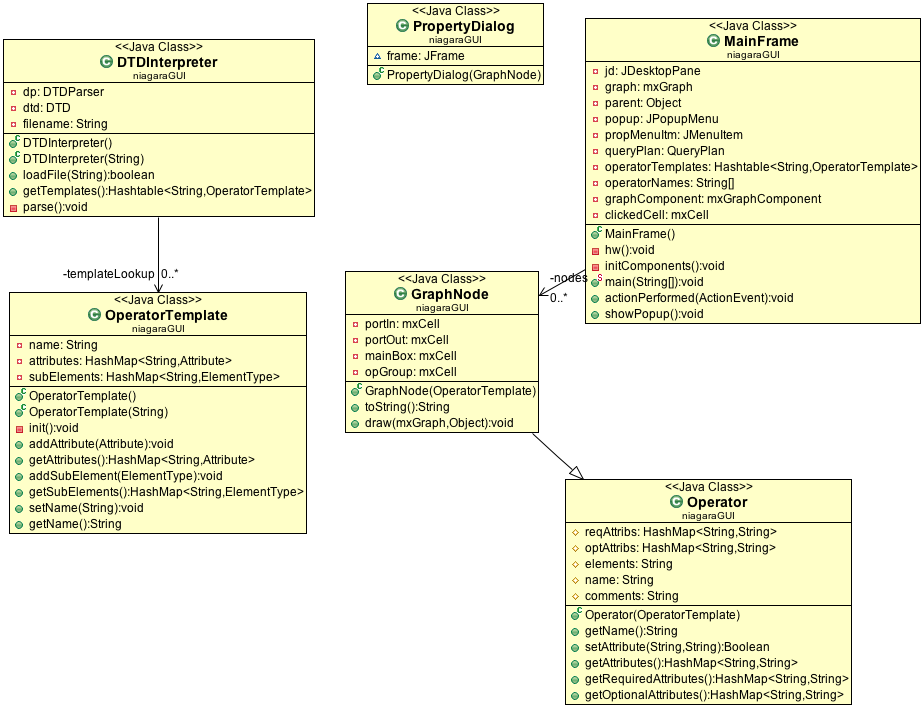
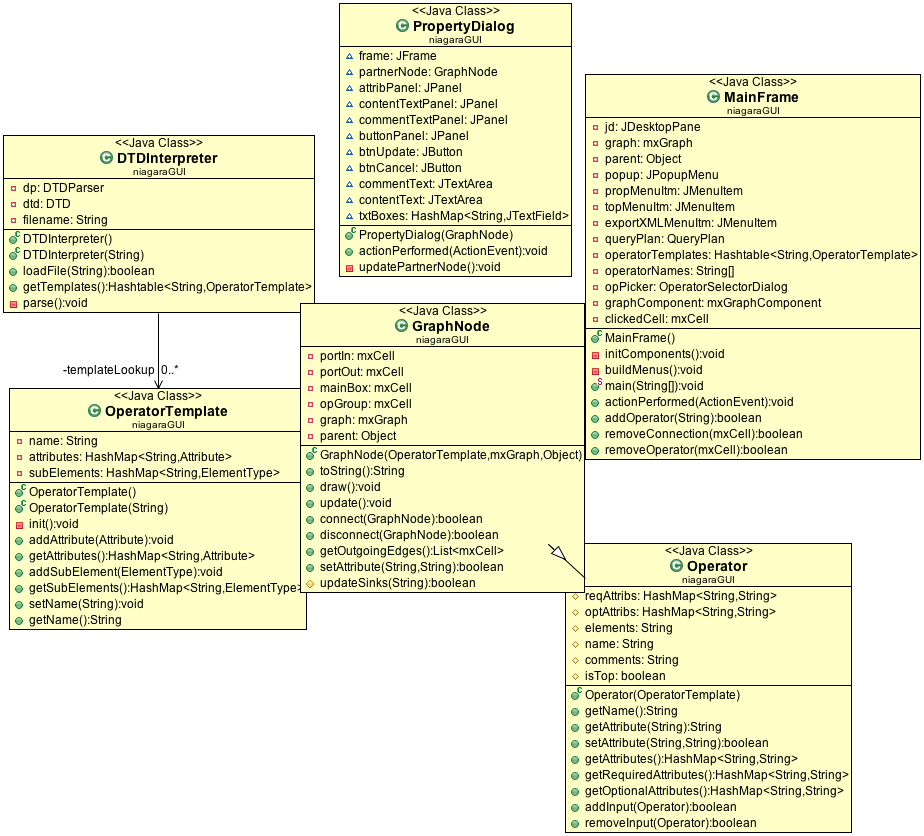
Changed things to store instansiated operators in QueryPlan.opList instead of MainFrame.nodes

diff --git a/src/niagaraGUI/MainFrame.java b/src/niagaraGUI/MainFrame.java
@@ -50,7 +50,6 @@ public class MainFrame extends JFrame implements ActionListener {
 	private QueryPlan queryPlan;
 	private Hashtable<String,OperatorTemplate> operatorTemplates;
 	private String[] operatorNames;
-	private List<GraphNode> nodes;
 	private OperatorSelectorDialog opPicker;
 	
 	
@@ -109,19 +108,7 @@ public class MainFrame extends JFrame implements ActionListener {
 			}
 		}
 	}
-	private class CellRemovalListener implements mxIEventListener{
-		JFrame master;
-		public CellRemovalListener(JFrame master){
-			this.master = master;
-		}
-		@Override
-		public void invoke(Object sender, mxEventObject evt) {
-			System.out.println(evt);
-			System.out.println("REMOVER INVOKED");
-			
-		}
-		
-	}
+	
 	private class KeyEventListener implements KeyListener{
 		JFrame master;
 		public KeyEventListener(JFrame master){
@@ -206,7 +193,6 @@ public class MainFrame extends JFrame implements ActionListener {
 		buildMenus();
 		graph = new mxGraph();
 		parent = graph.getDefaultParent();
-		nodes = new ArrayList<GraphNode>();
 		graph.getModel().beginUpdate();
 		graph.setCellsEditable(false);
 		graph.setAutoSizeCells(true);
@@ -231,7 +217,6 @@ public class MainFrame extends JFrame implements ActionListener {
 		getContentPane().add(graphComponent);
 		graphComponent.getGraphControl().addMouseListener(new MouseListener());
 		graphComponent.getConnectionHandler().addListener(mxEvent.CONNECT, new EdgeListener(this));
-		graphComponent.getConnectionHandler().addListener(mxEvent.CELLS_REMOVED, new CellRemovalListener(this));
 		graphComponent.addKeyListener(new KeyEventListener(this));
 		popup = new JPopupMenu();
 		propMenuItm = new JMenuItem("Properties");
@@ -288,7 +273,7 @@ public class MainFrame extends JFrame implements ActionListener {
 			System.out.println(opName);
 			System.out.println(operatorTemplates.get(opName));
 			GraphNode newNode = new GraphNode(operatorTemplates.get(opName), graph, parent);
-			nodes.add(newNode);
+			queryPlan.addOperatorInstance(newNode);
 			newNode.draw();
 		}
 		catch (Exception e){
@@ -327,6 +312,7 @@ public class MainFrame extends JFrame implements ActionListener {
 		for (mxCell e: edges){
 			removeConnection(e);
 		}
+		queryPlan.removeOperatorInstance(op);
 		mxCell[] toRemove = {operatorNode};
 		graph.removeCells(toRemove);
 		return false;

diff --git a/src/niagaraGUI/QueryPlan.java b/src/niagaraGUI/QueryPlan.java
@@ -4,17 +4,17 @@ import java.util.*;
 
 public class QueryPlan {
     private String filename;
-    static private Hashtable<String, OperatorTemplate> opTemplates;
-    private List<Operator> opList;//
+    static private Hashtable<String, OperatorTemplate> opTemplates;//Table of operator templates indexed by operator name
+    private List<Operator> opList;//List of operator Instances in the current query plan
     private Operator top;//reference to the top operator
-    private String queryName;
+    private String queryName;//name of the query
     private DTDInterpreter dtdInterp;
             
     public QueryPlan(String name, String filename) {
         opTemplates = new Hashtable<String, OperatorTemplate>();
         dtdInterp = new DTDInterpreter(filename);
         opTemplates = dtdInterp.getTemplates();
-        
+        opList = new ArrayList<Operator>();
     }
     
     static public Hashtable<String, OperatorTemplate> getOpTemplates() {
@@ -26,7 +26,7 @@ public class QueryPlan {
     }
     
     public void generateXML(String filename) {
-        
+
     }
     public String[] getOperatorNames(){
     	if (opTemplates != null){
@@ -45,6 +45,25 @@ public class QueryPlan {
     
     public String getName() {
         return queryName;
+    }
+    public boolean addOperatorInstance(Operator newOp){
+    	if (opList.contains(newOp)){
+    		return false;
+    	}
+    	else{
+    		opList.add(newOp);
+    		return true;
+    	}
+    	
+    }
+    public boolean removeOperatorInstance(Operator toRemove){
+    	if (opList.contains(toRemove)){
+    		opList.remove(toRemove);
+    		return true;
+    	}
+    	else{
+    		return false;
+    	}
     }
     
     // This design pattern is in place to ease future import if

diff --git a/src/niagaraGUI/GraphNode.java b/src/niagaraGUI/GraphNode.java
@@ -130,9 +130,34 @@ public class GraphNode extends Operator implements Serializable {
 		return rtn;
 		
 	}
-	public boolean updateSinks(String oldID){
+	public boolean setAttribute(String name, String value){
+		String oldIdString = "";
+		boolean newId = false;
+		boolean result = false;
+		if (name == "id"){//attempting to change id
+			List<mxCell> edges = this.getOutgoingEdges();//get all outgoing edges
+			for (mxCell edge: edges){//loop over all edges to disconnect from this node
+				Operator op = (Operator)edge.getTarget().getValue();//get target operator
+				op.removeInput(this);
+			}
+			result = setAttribute(name,value);
+			for (mxCell edge: edges){//loop over all edges again to reconnect to this node
+				Operator op = (Operator)edge.getTarget().getValue();//get target operators
+				op.addInput(this);
+			}
+		}
+		else{
+			result = super.setAttribute(name, value);//set new value, hold result
+		}
+		return result;
+	}
+	protected boolean updateSinks(String oldID){
 		//this method updates all nodes which receive data from this node with this nodes new name
-		
+		List<mxCell> outEdges = getOutgoingEdges();
+		for (mxCell edge : outEdges){
+			GraphNode sink = (GraphNode) edge.getTarget().getParent();
+			sink.removeInput(sink);
+		}
 		return true;
 	}
 

diff --git a/src/niagaraGUI/Operator.java b/src/niagaraGUI/Operator.java
@@ -50,7 +50,7 @@ public class Operator {
     	}
     	return null;
     }
-    public Boolean setAttribute(String name, String value) {
+    public boolean setAttribute(String name, String value) {
     	if (reqAttribs.containsKey(name)){
     		reqAttribs.put(name, value);
     		return true;
